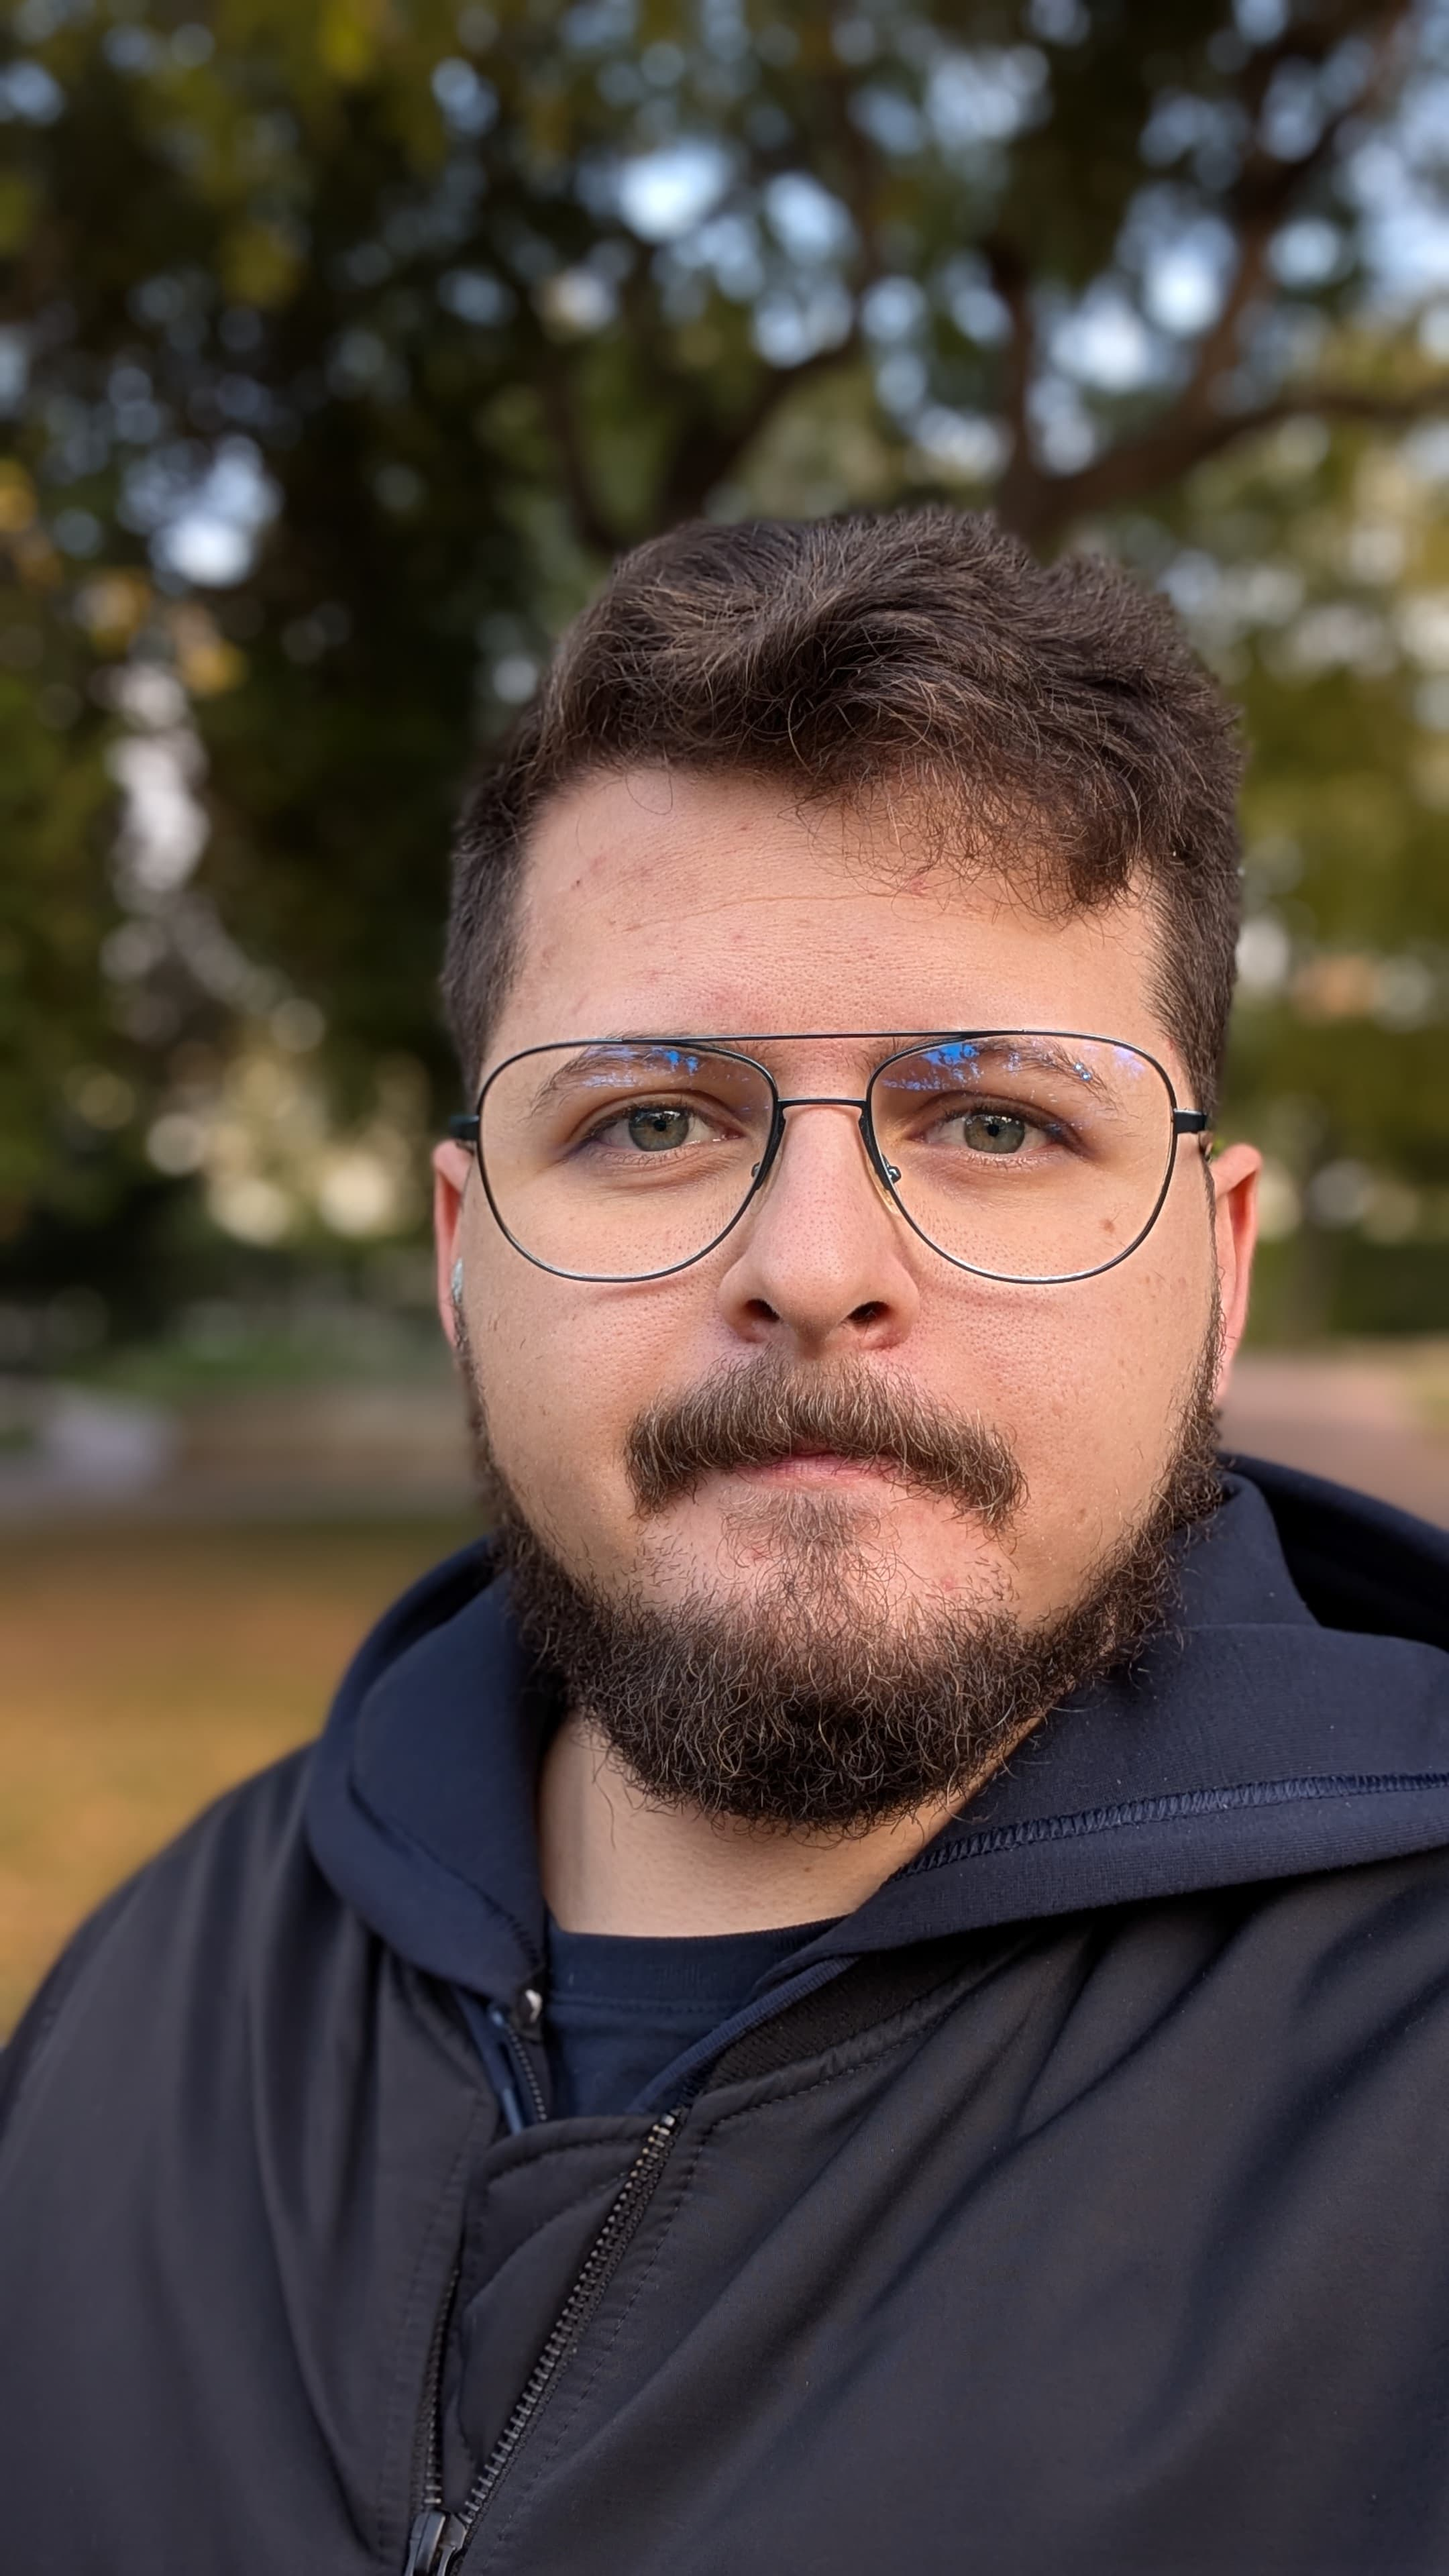
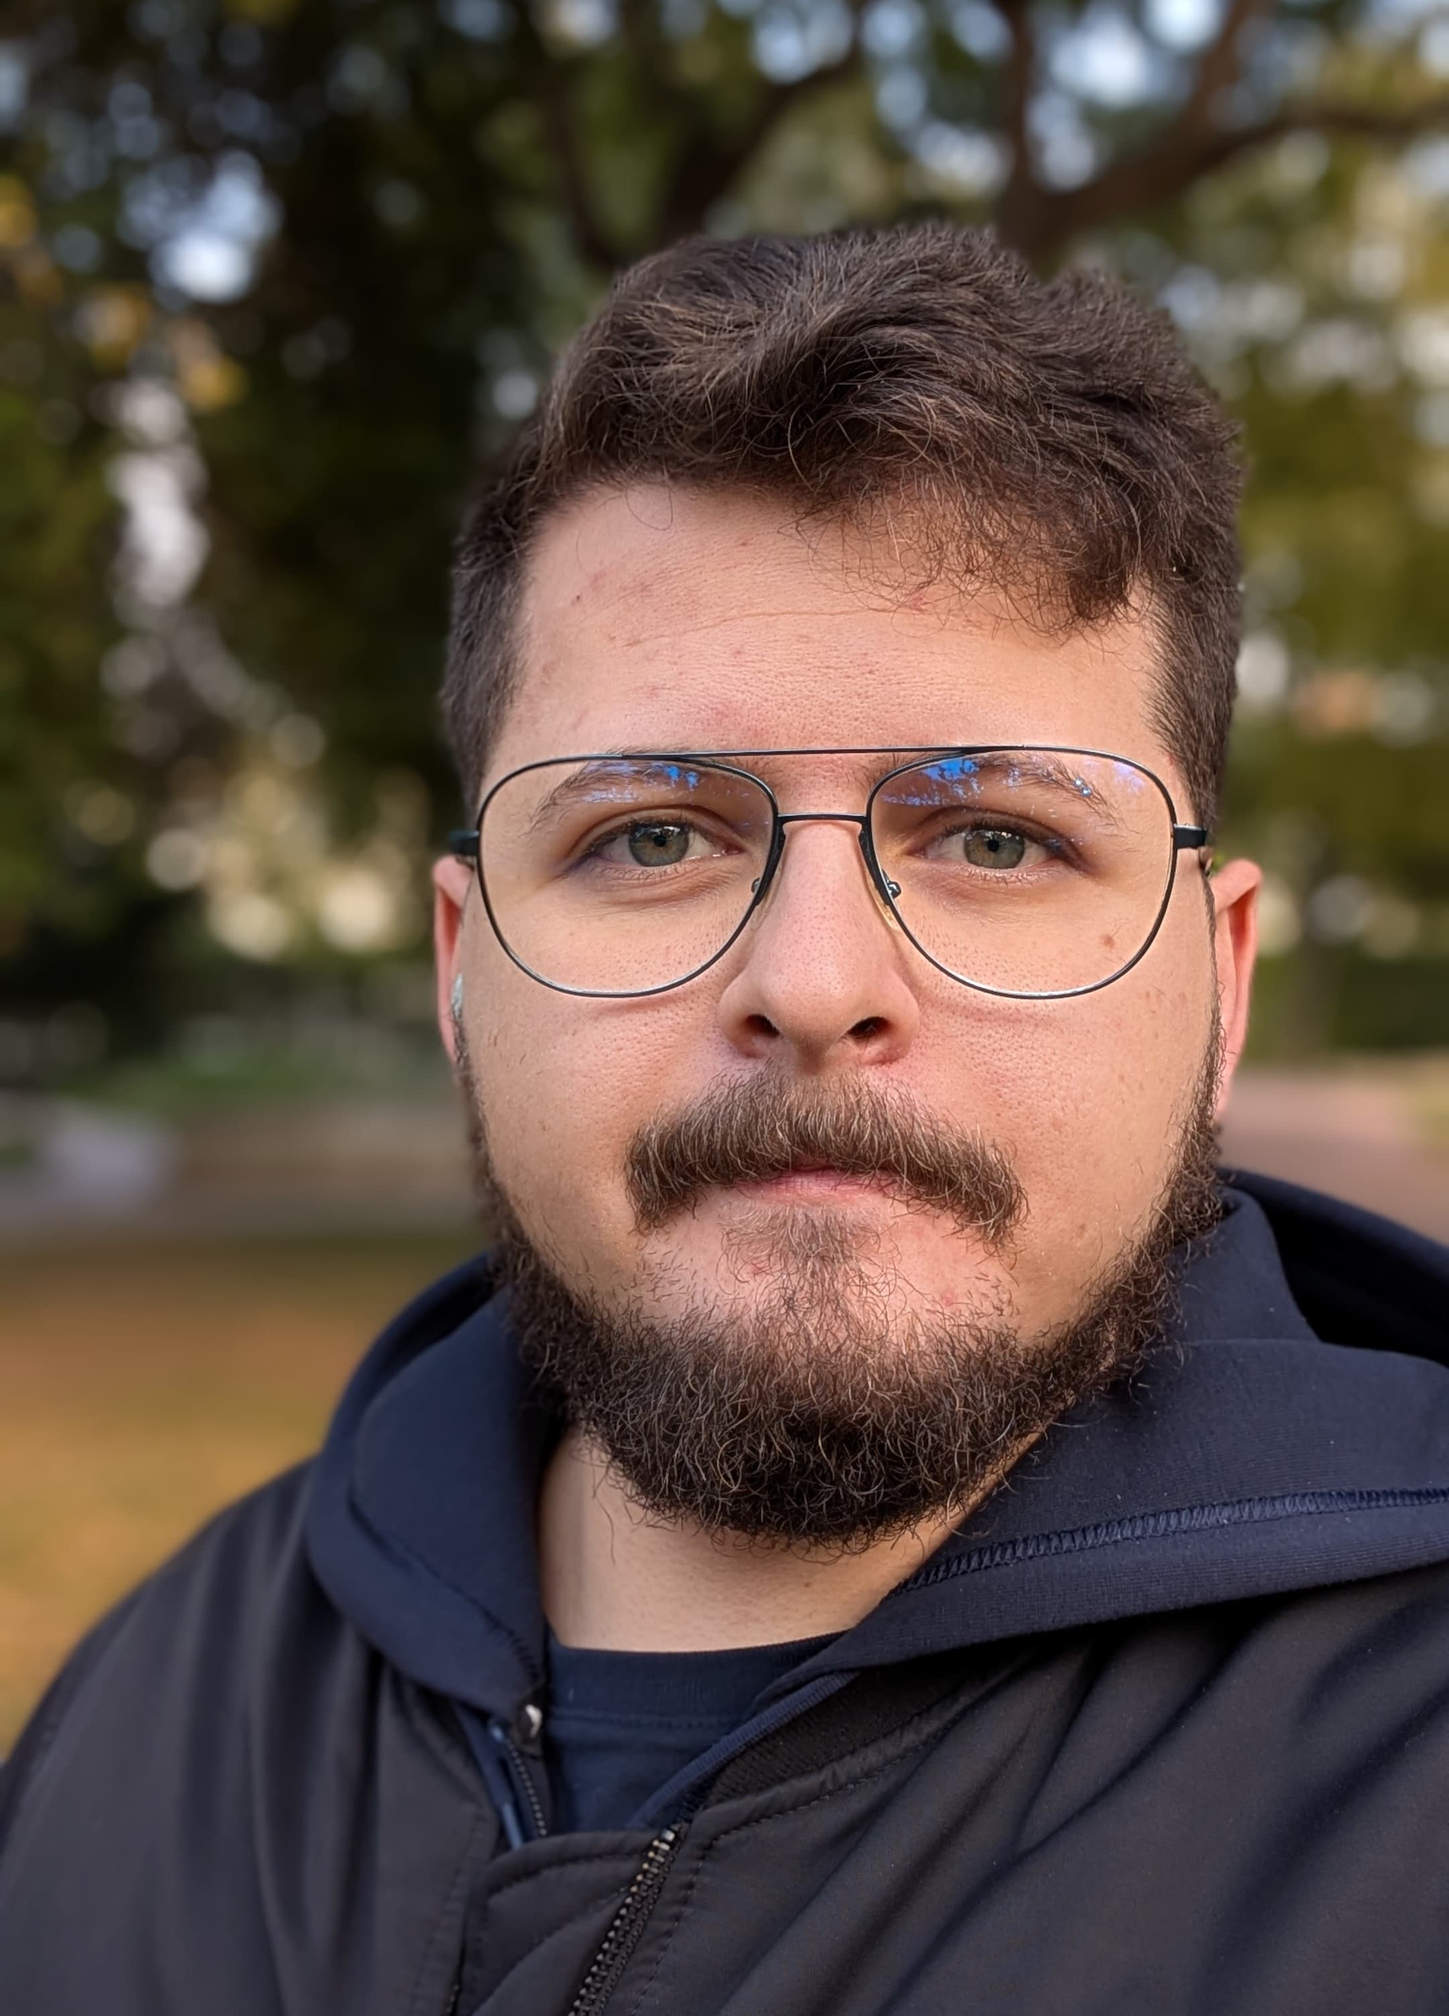
about page

diff --git a/src/pages/About.jsx b/src/pages/About.jsx
@@ -6,8 +6,8 @@ function About() {
         <div className="flex flex-col gap-y-[8px] col-span-2 md:grid md:grid-cols-6 gap-x-columnGap md:col-span-4 md:mt-[32px] lg:col-span-8 lg:grid-cols-8">
           <h6 className="text-grey1 blockH2 md:col-span-2 lg:col-span-4">[ Services ]</h6>
           <ul className="flex flex-col gap-[4px]">
-            <li className="leading-none whitespace-nowrap bodyCopy">Full Stack Development</li>
-            <li className="leading-none whitespace-nowrap bodyCopy">Front End Developpment</li>
+            <li className="leading-none whitespace-nowrap bodyCopy">Full Stack Dev</li>
+            <li className="leading-none whitespace-nowrap bodyCopy">Front End Dev</li>
           </ul>
         </div>
         <div className="flex flex-col gap-y-[8px] col-span-2 md:grid md:grid-cols-6 gap-x-columnGap md:col-span-4 md:mt-[32px] lg:col-span-8 lg:grid-cols-8">
@@ -35,9 +35,10 @@ function About() {
             </li>
           </ul>
         </div>
-        <img alt="Ivan Sanza Portrait" loading="lazy" width="1920" height="1920" decoding="async" data-nimg="1" className="col-span-4 justify-self-end hidden mt-[64px] mb-[32px] transition-opacity duration-700 md:block md:w-[309px] md:h-[392px] object-cover lg:w-[unset] lg:hidden lg:h-[unset]" src="/_next/image?url=%2Fimages%2FerinDesktop.jpg&amp;w=3840&amp;q=75" style={{color: "transparent"}}></img>
+        <img alt="Erin Fleming Portrait" loading="lazy" width="764" height="764" decoding="async" data-nimg="1" className="col-span-4 my-[32px] md:hidden transition-opacity duration-700" src="https://github.com/IvanZaja/Portfolio2/blob/1c0612b39a7a67a3b7a3c5d46919b9cf51e589e2/public/ProjectImages/profilepic.jpg?raw=true" style={{color: "transparent"}}></img>
+        <img alt="Ivan Sanza Portrait" loading="lazy" width="1920" height="1920" decoding="async" data-nimg="1" className="col-span-4 justify-self-end hidden mt-[64px] mb-[32px] transition-opacity duration-700 md:block md:w-[309px] md:h-[392px] object-cover lg:w-[unset] lg:hidden lg:h-[unset]" src="https://github.com/IvanZaja/Portfolio2/blob/1c0612b39a7a67a3b7a3c5d46919b9cf51e589e2/public/ProjectImages/profilepic.jpg?raw=true" style={{color: "transparent"}}></img>
       </div>
-      <img alt="Ivan Sanza Portrait" loading="lazy" width="1920" height="1920" decoding="async" data-nimg="1" className="col-span-4 justify-self-end hidden transition-opacity duration-700 md:w-[309px] md:h-[392px] object-cover lg:w-[unset] lg:mb-[32px] lg:h-[calc(100vh-311px)] lg:block" src="/_next/image?url=%2Fimages%2FerinDesktop.jpg&amp;w=3840&amp;q=75" style={{color: "transparent"}}></img>
+      <img alt="Ivan Sanza Portrait" loading="lazy" width="1920" height="1920" decoding="async" data-nimg="1" className="col-span-4 justify-self-end hidden transition-opacity duration-700 md:w-[309px] md:h-[392px] object-cover lg:w-[unset] lg:mb-[32px] lg:h-[calc(100vh-311px)] lg:block" src="https://github.com/IvanZaja/Portfolio2/blob/1c0612b39a7a67a3b7a3c5d46919b9cf51e589e2/public/ProjectImages/profilepic.jpg?raw=true" style={{color: "transparent"}}></img>
     </div>
   )
 }
